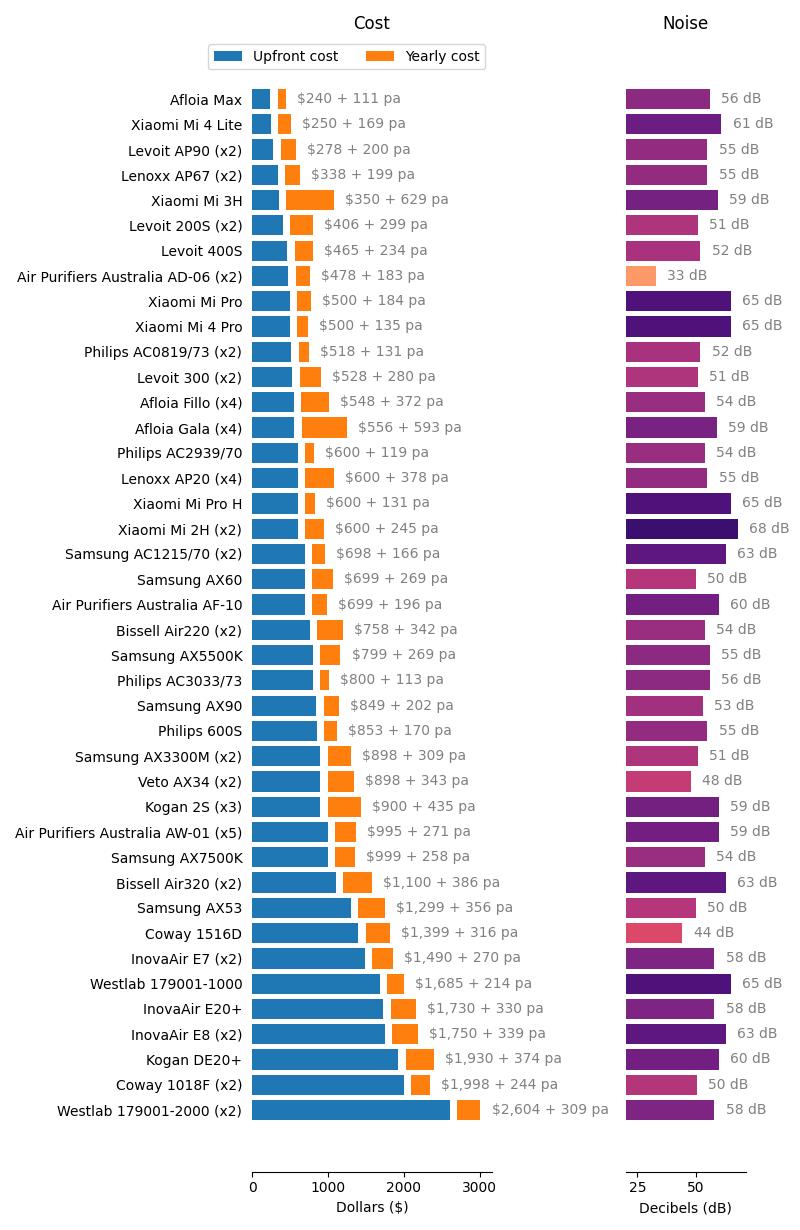
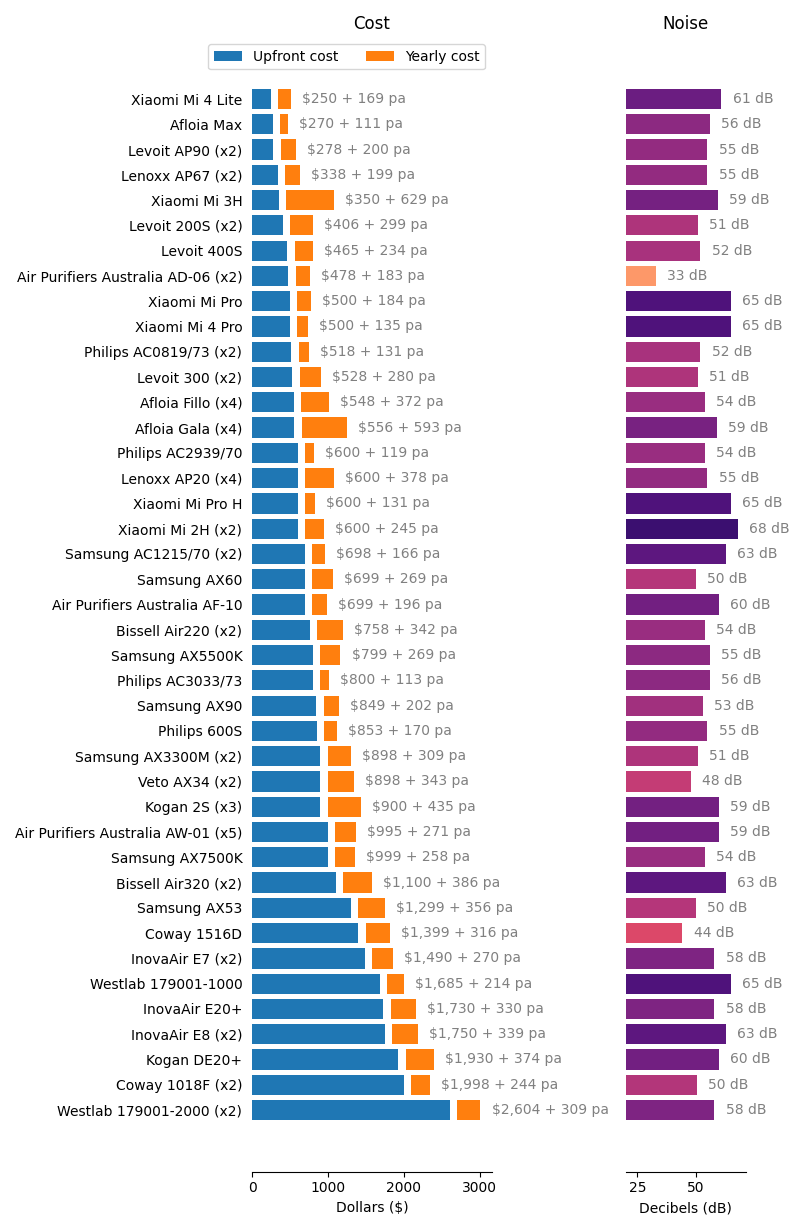
Quick push

Changed region(s): [[0.7812, 0.0618, 0.9688, 0.1236], [0.3438, 0.0618, 0.5, 0.1236], [0.1875, 0.0618, 0.3125, 0.1236]]

diff --git a/products/dashboard.html b/products/dashboard.html
@@ -13,7 +13,7 @@ With so many air cleaning devices on the market, how do we know which product is
 <div>
 <h2>Overview Chart</h2>
 <p>
-This chart brings all of our data together in one graphic. Based on a typical medium-sized room (78 m<sup>3</sup>), this chart asks: <ul><li>How many rooms full of clean air can this device buy for the cost of a dollar (left to right, where right is better)</li><li>How many (bottom to top, where top is better)</li><li>How noisy the device is (yellow to black, where yellow is better)</li></ul> The cost includes the upfront cost (spread over 1 years) plus the expected ongoing costs of electricity and filter replacements.
+This chart brings all of our data together in one graphic. Based on a typical medium-sized room (78 m<sup>3</sup>), this chart asks: <ul><li>How many rooms full of clean air can this device buy for the cost of a dollar (left to right, where right is better)</li><li>How many (bottom to top, where top is better)</li><li>How noisy the device is (yellow to black, where yellow is better)</li></ul> The cost includes the upfront cost (spread over 5 years) plus the expected ongoing costs of electricity and filter replacements.
 </p>
 <div align="center">
 <img id = 'synoptic' src='https://rsbyrne.github.io/aircleaning/products/synoptic.png' alt="Synoptic"> 

diff --git a/aircleaning/produce.py b/aircleaning/produce.py
@@ -112,7 +112,7 @@ def dashboard(path=productsdir, name='dashboard'):
     vols, quals = load.get_volume_data(), load.get_quality_data()
     mediumvol = f"{round(vols.loc['medium', 'levels'])} m<sup>3</sup>"
     # goodqual = f"{round(quals.loc['good', 'levels'])} ACH"
-    nomperiod = round(load.get_parameters().loc['nominal period', 'value'])
+    nomperiod = round(float(load.get_parameters().loc['nominal period', 'value']))
 
     strn = ''
 
